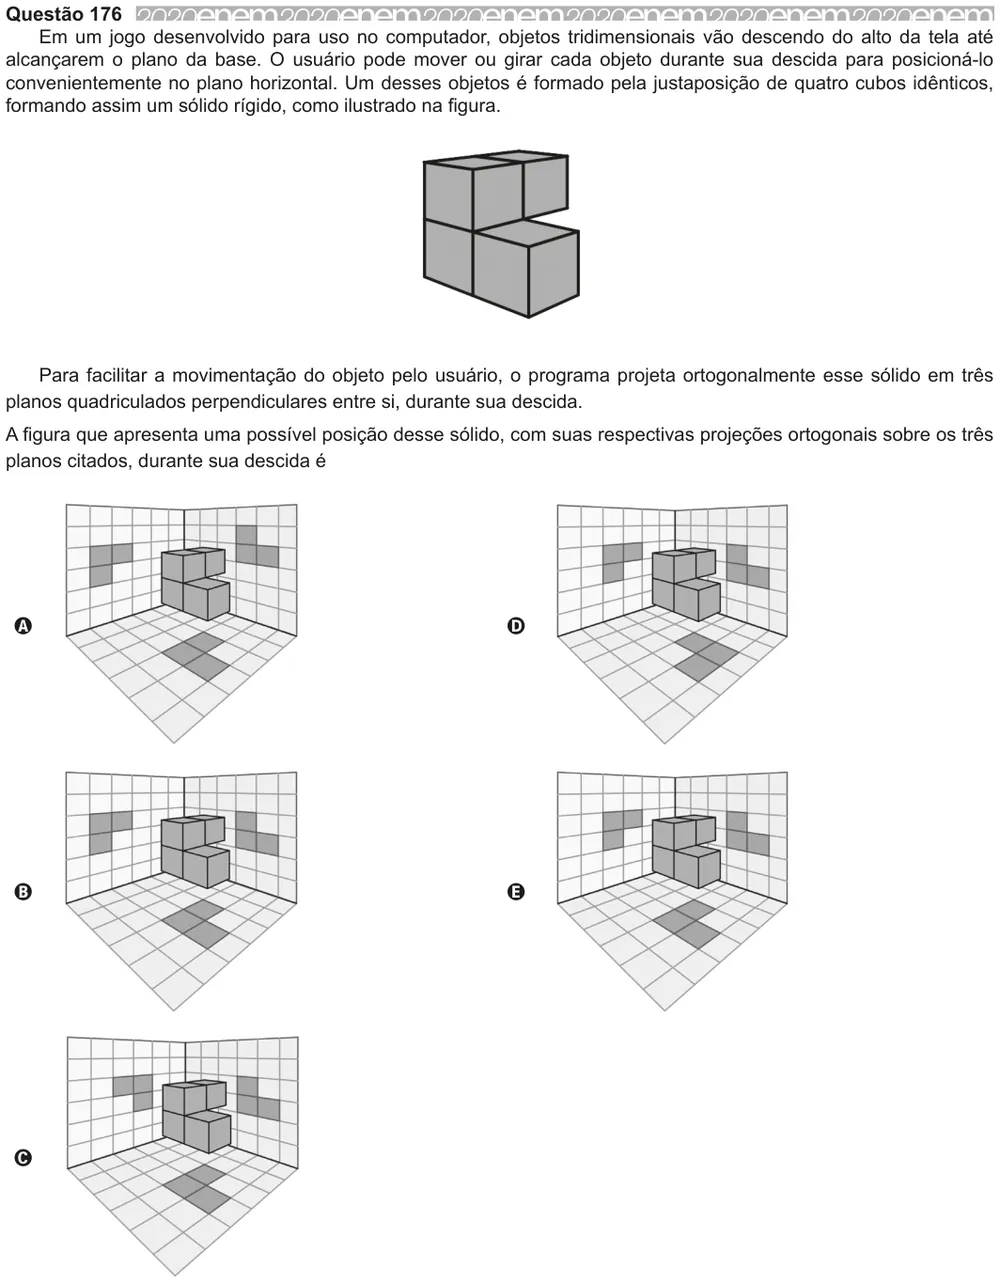
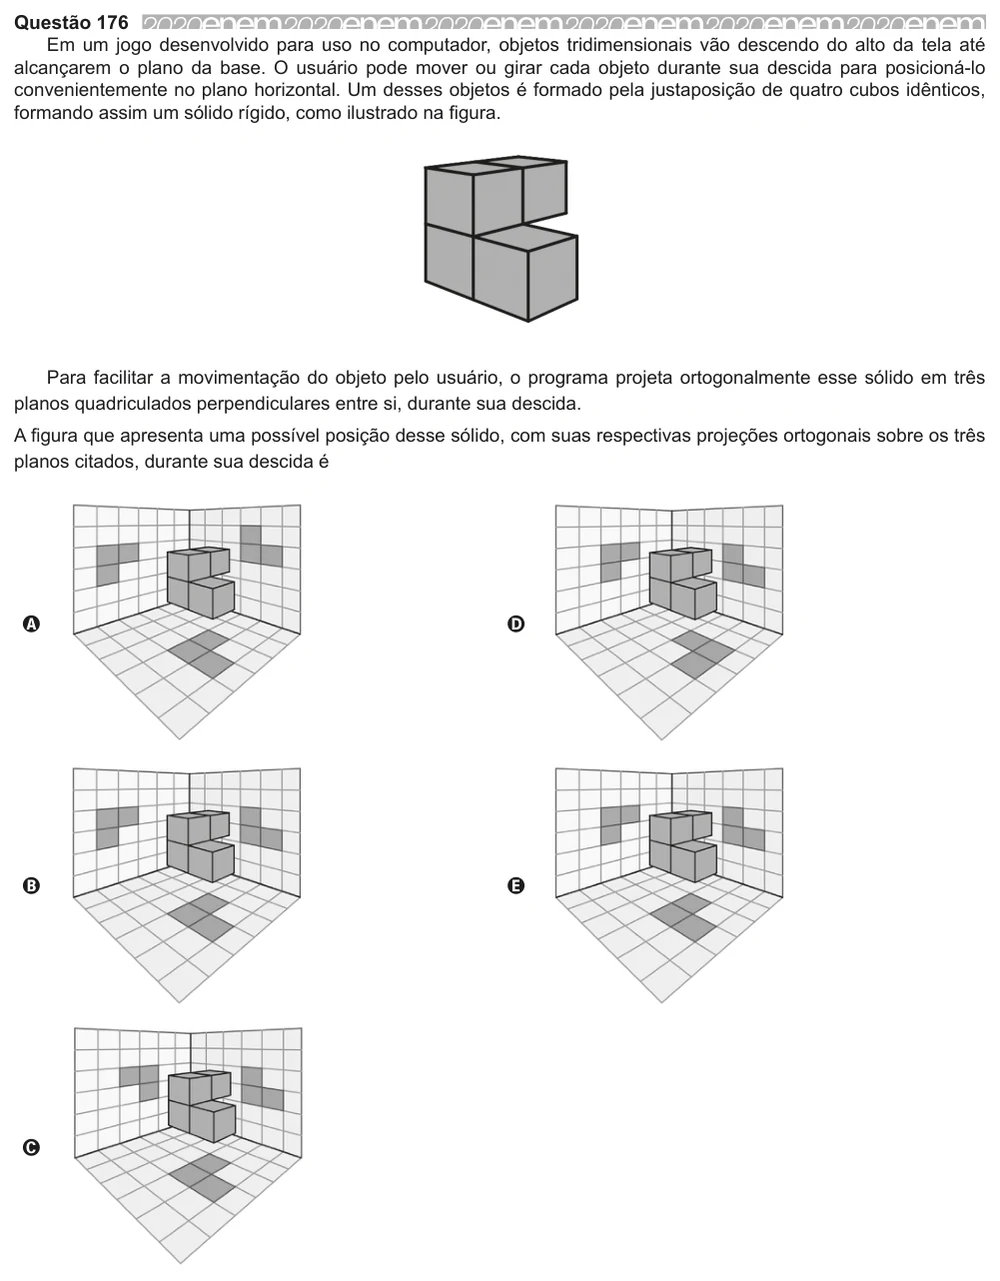
Prints refeitos do PDF oficial: ENEM 2020 q175 (gráfico embaralhado), ENEM 2021 q162 (tabela partida) e ampliação 2x da ENEM 2020 q176
Nova ferramenta ferramentas/ingestao/refaz_print.py: baixa o PDF oficial da prova (fontes/cache-pdf, fora
do git), acha a questão, recorta a página como está no caderno (coluna ou largura inteira, até a
próxima questão ou o rodapé, contando texto, desenhos e imagens), grava o print com 1000 px, atualiza
larg/alt/paginas e registra a troca em docs/provas/prints-refeitos.md.

Claude-Session: https://claude.ai/code/session_01PveEKWW3t7ZxcdDQKNiYWa

diff --git a/ferramentas/ingestao/refaz_print.py b/ferramentas/ingestao/refaz_print.py
@@ -1,0 +1,157 @@
+#!/usr/bin/env python3
+"""Refaz o print de uma questão direto do PDF oficial (quando o recorte automático saiu embaralhado ou cortado).
+
+  python3 ferramentas/ingestao/refaz_print.py <prova> <n>                      automático (questão numa página só)
+  python3 ferramentas/ingestao/refaz_print.py <prova> <n> --seg P:x0,y0,x1,y1 [--seg ...]   trechos à mão (pontos do PDF,
+                                                                               página P contada a partir de 1), empilhados
+  --previa   só gera a imagem em /tmp para conferir, sem gravar
+  --zoom     grava também uma ampliação 2x em docs/resolucoes/apoio/<id>.png (questões de figura miúda)
+
+O PDF vem do link oficial em prova.json (fontes[caderno]) e fica em fontes/cache-pdf/ (fora do git).
+Grava q/<n>.webp com 1000 px de largura, atualiza larg, alt e paginas no prova.json e registra a troca em
+docs/provas/prints-refeitos.md. Sempre confira a imagem antes de dar por pronta.
+"""
+import datetime
+import json
+import os
+import re
+import subprocess
+import sys
+
+import pymupdf as fitz
+from PIL import Image
+
+RAIZ = os.path.dirname(os.path.dirname(os.path.dirname(os.path.abspath(__file__))))
+PROVAS = os.path.join(RAIZ, 'app', 'conteudo-fonte', 'provas')
+CACHE = os.path.join(RAIZ, 'fontes', 'cache-pdf')
+LARG = 1000
+
+
+def baixa(url):
+    os.makedirs(CACHE, exist_ok=True)
+    nome = re.sub(r'[^A-Za-z0-9._-]', '_', url.split('/')[-1])
+    f = os.path.join(CACHE, nome)
+    if not os.path.exists(f):
+        cmd = ['curl', '-sS', '-L', '-A', 'Mozilla/5.0 (compatible; estudos)', '-o', f, url]
+        extra = os.path.join(RAIZ, 'ferramentas', 'ingestao', 'certs')
+        if os.path.isdir(extra):  # cadeia intermediária de alguns servidores (INEP); soma ao bundle do sistema
+            bundle = os.path.join(CACHE, 'bundle.pem')
+            base = os.environ.get('SSL_CERT_FILE') or '/root/.ccr/ca-bundle.crt'
+            with open(bundle, 'w') as h:
+                for c in [base] + [os.path.join(extra, x) for x in sorted(os.listdir(extra)) if x.endswith('.pem')]:
+                    if os.path.exists(c):
+                        h.write(open(c).read() + '\n')
+            cmd[1:1] = ['--cacert', bundle]
+        subprocess.run(cmd, check=True)
+    return f
+
+
+def acha_questao(doc, n, paginas):
+    rotulos = [f'Questão {n}', f'QUESTÃO {n}', f'Questão {n:02d}' if isinstance(n, int) else f'Questão {n}']
+    ordem = [p - 1 for p in paginas] + [i for i in range(len(doc)) if i + 1 not in paginas]
+    for i in ordem:
+        for r in rotulos:
+            for hit in doc[i].search_for(r):
+                # descarta "Questão 1" achado dentro de "Questão 17"
+                prox = doc[i].get_textbox(fitz.Rect(hit.x1, hit.y0, hit.x1 + 6, hit.y1)).strip()
+                if not prox[:1].isdigit():
+                    return i, hit
+    sys.exit(f'Questão {n} não encontrada no PDF.')
+
+
+def regiao_auto(pg, hit):
+    W, H = pg.rect.width, pg.rect.height
+    # rodapé: o texto mais alto entre os que ficam nos últimos 10% da página
+    baixos = [b[1] for b in pg.get_text('blocks') if b[1] > H * 0.9]
+    rodape = (min(baixos) - 4) if baixos else H - 30
+    meio = W / 2
+    # próxima questão abaixo, na mesma página
+    outras = [h for h in pg.search_for('Questão') if h.y0 > hit.y1 + 2]
+    fim = min([h.y0 - 4 for h in outras if (h.x0 < meio) == (hit.x0 < meio) or h.x0 < meio < h.x1] + [rodape])
+    itens = [fitz.Rect(b[:4]) for b in pg.get_text('blocks')]
+    itens += [d['rect'] for d in pg.get_drawings()]
+    itens += [fitz.Rect(x['bbox']) for x in pg.get_image_info()]
+    itens = [r for r in itens if r.y0 >= hit.y0 - 2 and r.y1 <= fim and r.x1 <= W and r.width < W]
+    larga = any(r.x0 < meio - 10 and r.x1 > meio + 10 for r in itens)
+    if larga:
+        x0, x1 = 26, W - 26
+    elif hit.x0 < meio:
+        x0, x1 = 26, meio - 4
+    else:
+        x0, x1 = meio + 4, W - 26
+    dentro = [r for r in itens if r.x0 >= x0 - 2 and r.x1 <= x1 + 2]
+    yb = max(r.y1 for r in dentro)
+    return [(pg.number, fitz.Rect(x0 - 2, hit.y0 - 4, x1 + 2, yb + 6))]
+
+
+def render(doc, segs):
+    larg_pt = max(r.width for _, r in segs)
+    z = LARG / larg_pt
+    partes = []
+    for i, r in segs:
+        pix = doc[i].get_pixmap(matrix=fitz.Matrix(z, z), clip=r)
+        partes.append(Image.frombytes('RGB', (pix.width, pix.height), pix.samples))
+    im = Image.new('RGB', (max(p.width for p in partes), sum(p.height for p in partes)), 'white')
+    y = 0
+    for p in partes:
+        im.paste(p, (0, y))
+        y += p.height
+    if im.width != LARG:
+        im = im.resize((LARG, round(im.height * LARG / im.width)), Image.LANCZOS)
+    return im, z
+
+
+def main():
+    a = sys.argv[1:]
+    if len(a) < 2:
+        sys.exit(__doc__)
+    pid, n = a[0], int(a[1])
+    segs_mao = [s for k, s in zip(a, a[1:]) if k == '--seg']
+    previa, zoom = '--previa' in a, '--zoom' in a
+    fp = os.path.join(PROVAS, pid, 'prova.json')
+    p = json.load(open(fp, encoding='utf-8'))
+    q = next(x for x in p['questoes'] if str(x['n']) == str(n))
+    doc = fitz.open(baixa(p['fontes'][q['caderno']]))
+    if segs_mao:
+        segs = []
+        for s in segs_mao:
+            pg, c = s.split(':')
+            segs.append((int(pg) - 1, fitz.Rect(*[float(v) for v in c.split(',')])))
+    else:
+        i, hit = acha_questao(doc, n, q.get('paginas') or [])
+        segs = regiao_auto(doc[i], hit)
+    im, z = render(doc, segs)
+    if previa:
+        out = f'/tmp/previa-{pid}-{n}.png'
+        im.save(out)
+        print(f'Prévia: {out} ({im.width}x{im.height}); trechos: {[(i + 1, tuple(round(v) for v in r)) for i, r in segs]}')
+        return
+    dst = os.path.join(PROVAS, pid, q['print'])
+    antes = Image.open(dst).size if os.path.exists(dst) else None
+    im.save(dst, 'WEBP', quality=88, method=6)
+    q['larg'], q['alt'] = im.size
+    q['paginas'] = sorted({i + 1 for i, _ in segs})
+    txt = open(fp, encoding='utf-8').read()
+    ind = 1 if txt[:200].count('\n "') else (2 if txt[:200].count('\n  "') else None)
+    with open(fp, 'w', encoding='utf-8') as h:
+        json.dump(p, h, ensure_ascii=False, indent=ind)
+        if txt.endswith('\n'):
+            h.write('\n')
+    if zoom:
+        za = os.path.join(RAIZ, 'docs', 'resolucoes', 'apoio', f"{q['id']}.png")
+        os.makedirs(os.path.dirname(za), exist_ok=True)
+        zz = 2 * z
+        partes = [doc[i].get_pixmap(matrix=fitz.Matrix(zz, zz), clip=r) for i, r in segs]
+        partes[0].save(za) if len(partes) == 1 else im.resize((im.width * 2, im.height * 2), Image.LANCZOS).save(za)
+        print(f'Ampliação: {za}')
+    reg = os.path.join(RAIZ, 'docs', 'provas', 'prints-refeitos.md')
+    if not os.path.exists(reg):
+        open(reg, 'w', encoding='utf-8').write('# Prints refeitos do PDF oficial\n\n| Data | Prova | Questão | id | Antes | Depois | Trechos (página: retângulo em pontos) |\n|---|---|---|---|---|---|---|\n')
+    with open(reg, 'a', encoding='utf-8') as h:
+        h.write(f"| {datetime.date.today().isoformat()} | {pid} | {n} | {q['id']} | {antes[0]}x{antes[1] if antes else ''} | "
+                f"{im.width}x{im.height} | {'; '.join(f'{i + 1}: ' + ','.join(str(round(v)) for v in r) for i, r in segs)} |\n")
+    print(f'{pid} q{n}: print refeito ({im.width}x{im.height}) em {dst}')
+
+
+if __name__ == '__main__':
+    main()

diff --git a/docs/provas/prints-refeitos.md b/docs/provas/prints-refeitos.md
@@ -1,0 +1,7 @@
+# Prints refeitos do PDF oficial
+
+| Data | Prova | Questão | id | Antes | Depois | Trechos (página: retângulo em pontos) |
+|---|---|---|---|---|---|---|
+| 2026-11-11 | enem-2021 | 162 | P3b213639 | 1000x2046 | 1000x1215 | 27: 24,73,543,703 |
+| 2026-11-11 | enem-2020 | 175 | P09a499d5 | 1000x1256 | 1000x1246 | 29: 24,69,543,716 |
+| 2026-11-11 | enem-2020 | 176 | Pe5e6840f | 1000x1282 | 1000x1281 | 30: 24,69,543,734 |
